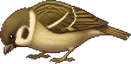
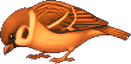
小动物调优 + 天气音效（雨声循环/炸雷）+ 乌云关闭
- 小鸟缩小(62×30→38×18)并染暖橙红（原橄榄褐太隐蔽）
- 兔子可击杀：命中掉 2 金币，白闪/尘土/血演出，稍后重生
- 鸟/蝴蝶惊飞威胁源扩展为"主角+活敌，谁近怕谁"
- 乌云效果关闭（雨天云保持常态）
- AudioMgr 新增环境音循环通道；rain.wav 首尾交叉淡化无缝循环，
  随天气自动开关；thunder.wav 截 2.6s 接主闪
- 音频现有 14 件

diff --git a/assets/scripts/BattleScene.ts b/assets/scripts/BattleScene.ts
@@ -461,7 +461,7 @@ export class BattleScene extends Component {
       const bSps: Sprite[] = [];
       for (let i = 0; i < 3; i++) bSps.push(mkC('butterfly' + i, 33, 28, 0, i * 2.1, 2 + i * 3));
       loadSF('critter-butterfly', sf => { for (const sp of bSps) sp.spriteFrame = sf; });
-      const birdSp = mkC('bird', 62, 30, 1, 0, 3);
+      const birdSp = mkC('bird', 38, 18, 1, 0, 3);   // 小鸟缩小（原 62×30 太大）
       loadSF('critter-bird-stand', sf => { this.birdStandSF = sf; birdSp.spriteFrame = sf; });
       loadSF('critter-bird-fly', sf => { this.birdFlySF = sf; });
       mkC('rabbit', 66, 33, 2, 0, 10);
@@ -1280,6 +1280,19 @@ export class BattleScene extends Component {
           if (Math.abs(dx) <= mp.range + 34 * m.scale && inFront) {   // 含敌人体型/武器 → 碰到就算
             const kdir = mp.both ? (dx >= 0 ? 1 : -1) : h.dir;
             this.hitMonster(m, mp.dmg, kdir, mp.knock, mp.launch, mp.blood, (h.x + m.x) / 2, this.groundY + 80 * m.scale);
+          }
+        }
+        // 兔子也能打：一刀带走，掉 2 金币（彩蛋小奖励）
+        for (const c of this.critters) {
+          if (c.kind !== 2 || c.state === 0 || c.y > 70) continue;
+          const dxc = c.x - h.x;
+          if (Math.abs(dxc) <= mp.range + 20 && (mp.both || dxc * h.dir > -30)) {
+            this.spawnHitFlash(this.sX(c.x), this.groundY + 24);
+            this.spawnDust(c.x, this.groundY + 8, 4, 150);
+            this.spawnBlood(c.x, this.groundY + 26, dxc >= 0 ? 1 : -1, 6);
+            for (let k = 0; k < 2; k++) this.drops.push({ x: c.x + (Math.random() - 0.5) * 30, y: this.groundY + 40, vy: 150 + Math.random() * 90, life: 0, flying: false, sx: 0, sy: 0 });
+            AudioMgr.inst.play('hit');
+            c.state = 0; c.n.active = false; c.wait = 18 + Math.random() * 16;   // 一段时间后再来一只
           }
         }
       }
@@ -2732,6 +2745,8 @@ export class BattleScene extends Component {
   // 切换天气 + 铺满粒子
   private setWeather(type: string) {
     this.weather = type;
+    if (type === '雨') AudioMgr.inst.playAmb('rain', 0.45);   // 雨声循环
+    else AudioMgr.inst.stopAmb();
     this.wparts = [];
     this.wimpacts = [];
     this.lightT = 0; this.lightCd = 2 + Math.random() * 4;
@@ -2918,6 +2933,14 @@ export class BattleScene extends Component {
     const W = DESIGN_W, gy = this.groundY, t = this.animT;
     const heroSx = this.sX(this.hero.x);
     const calm = this.timeOfDay().name !== '夜晚' && this.weather !== '雨';
+    // 威胁源：主角 + 活着的敌人（鸟和蝴蝶谁近怕谁）
+    const threats: number[] = [heroSx];
+    for (const m of this.monsters) if (m.state !== 'dead') threats.push(this.sX(m.x));
+    const nearThreat = (sx: number) => {
+      let d = 1e9, x = heroSx;
+      for (const tx of threats) { const dd = Math.abs(sx - tx); if (dd < d) { d = dd; x = tx; } }
+      return { d, x };
+    };
     for (const c of this.critters) {
       // ---------- 蝴蝶 ----------
       if (c.kind === 0) {
@@ -2938,8 +2961,9 @@ export class BattleScene extends Component {
           const yy = c.y + Math.sin(t * 2.2 + c.ph) * 13;
           c.n.setPosition(sx, yy, 0);
           c.n.setScale(wx >= 0 ? -1 : 1, 0.55 + 0.45 * Math.abs(Math.sin(t * 11 + c.ph)), 1);   // 扑翼
-          if (Math.abs(sx - heroSx) < 85 || !calm) {   // 惊飞
-            c.state = 2; c.vx = (sx >= heroSx ? 1 : -1) * (150 + Math.random() * 90); c.vy = 190;
+          const nt = nearThreat(sx);
+          if (nt.d < 85 || !calm) {   // 惊飞（主角或敌人靠近都跑）
+            c.state = 2; c.vx = (sx >= nt.x ? 1 : -1) * (150 + Math.random() * 90); c.vy = 190;
           }
         } else {                        // 惊飞逃离
           c.x += c.vx * dt; c.y += c.vy * dt;
@@ -2970,8 +2994,9 @@ export class BattleScene extends Component {
           const peck = Math.max(0, Math.sin(t * 2.6 + 1)) ** 6;
           c.n.angle = -16 * peck;      // 低头啄
           c.n.setScale(sx >= heroSx ? -1 : 1, 1, 1);   // 面朝主角方向(图朝左)
-          if (Math.abs(sx - heroSx) < 150 || (this.hero.attacking && Math.abs(sx - heroSx) < 260) || !calm) {   // 惊飞（挥刀只吓近处的）
-            c.state = 2; c.vx = (sx >= heroSx ? 1 : -1) * (230 + Math.random() * 90); c.vy = 300;
+          const nt = nearThreat(sx);
+          if (nt.d < 150 || (this.hero.attacking && Math.abs(sx - heroSx) < 260) || !calm) {   // 惊飞（主角/敌人靠近，或近处挥刀）
+            c.state = 2; c.vx = (sx >= nt.x ? 1 : -1) * (230 + Math.random() * 90); c.vy = 300;
             if (this.birdFlySF) c.sp.spriteFrame = this.birdFlySF;
             c.n.angle = 0;
           }
@@ -3081,6 +3106,7 @@ export class BattleScene extends Component {
       this.lightCd -= dt;
       if (this.lightCd <= 0) {   // 主闪
         this.lightT = 1; this.genBolt(); this.addShake(5);
+        AudioMgr.inst.play('thunder', 0.7);
         this.flickN = 2 + Math.floor(Math.random() * 2); this.flickT = 0.06 + Math.random() * 0.06;
         this.lightCd = 5 + Math.random() * 8;
       }
@@ -3256,7 +3282,7 @@ export class BattleScene extends Component {
   // 飘云（慢速视差，块状）
   private drawClouds(t: Theme, PX: number) {
     const g = this.bgG, W = DESIGN_W, gy = this.groundY;
-    const k = this.stormK;   // 乌云浓度：雨天 0→1
+    const k = 0;   // 乌云效果已关闭（想恢复改回 this.stormK）
     // 云色：平时亮云 → 雨天渐变成深灰乌云
     const bright = this.sh(this.timeOfDay().sky, 1.16);
     const col = new Color(

diff --git a/assets/scripts/AudioMgr.ts b/assets/scripts/AudioMgr.ts
@@ -11,6 +11,7 @@ export class AudioMgr {
 
   private source: AudioSource;      // 音效（playOneShot 可叠加）
   private bgmSource: AudioSource;   // BGM（循环独占）
+  private ambSource: AudioSource;   // 环境音（循环独占：雨声等）
   private cache: Record<string, AudioClip> = {};
   private missing: Record<string, boolean> = {};   // 已知缺失，不再重试
   sfxVolume = 1.0;
@@ -23,6 +24,8 @@ export class AudioMgr {
     this.source = n.addComponent(AudioSource);
     this.bgmSource = n.addComponent(AudioSource);
     this.bgmSource.loop = true;
+    this.ambSource = n.addComponent(AudioSource);
+    this.ambSource.loop = true;
   }
 
   private load(name: string, cb: (clip: AudioClip | null) => void) {
@@ -54,4 +57,22 @@ export class AudioMgr {
   }
 
   stopBgm() { this.bgmSource.stop(); }
+
+  /** 循环播放环境音（雨声等；同名重复调用不重启） */
+  playAmb(name: string, vol = 0.5) {
+    if ((this.ambSource as unknown as { _ambName?: string })._ambName === name && this.ambSource.playing) return;
+    this.load(name, clip => {
+      if (!clip) return;
+      (this.ambSource as unknown as { _ambName?: string })._ambName = name;
+      this.ambSource.stop();
+      this.ambSource.clip = clip;
+      this.ambSource.volume = vol;
+      this.ambSource.play();
+    });
+  }
+
+  stopAmb() {
+    (this.ambSource as unknown as { _ambName?: string })._ambName = '';
+    this.ambSource.stop();
+  }
 }